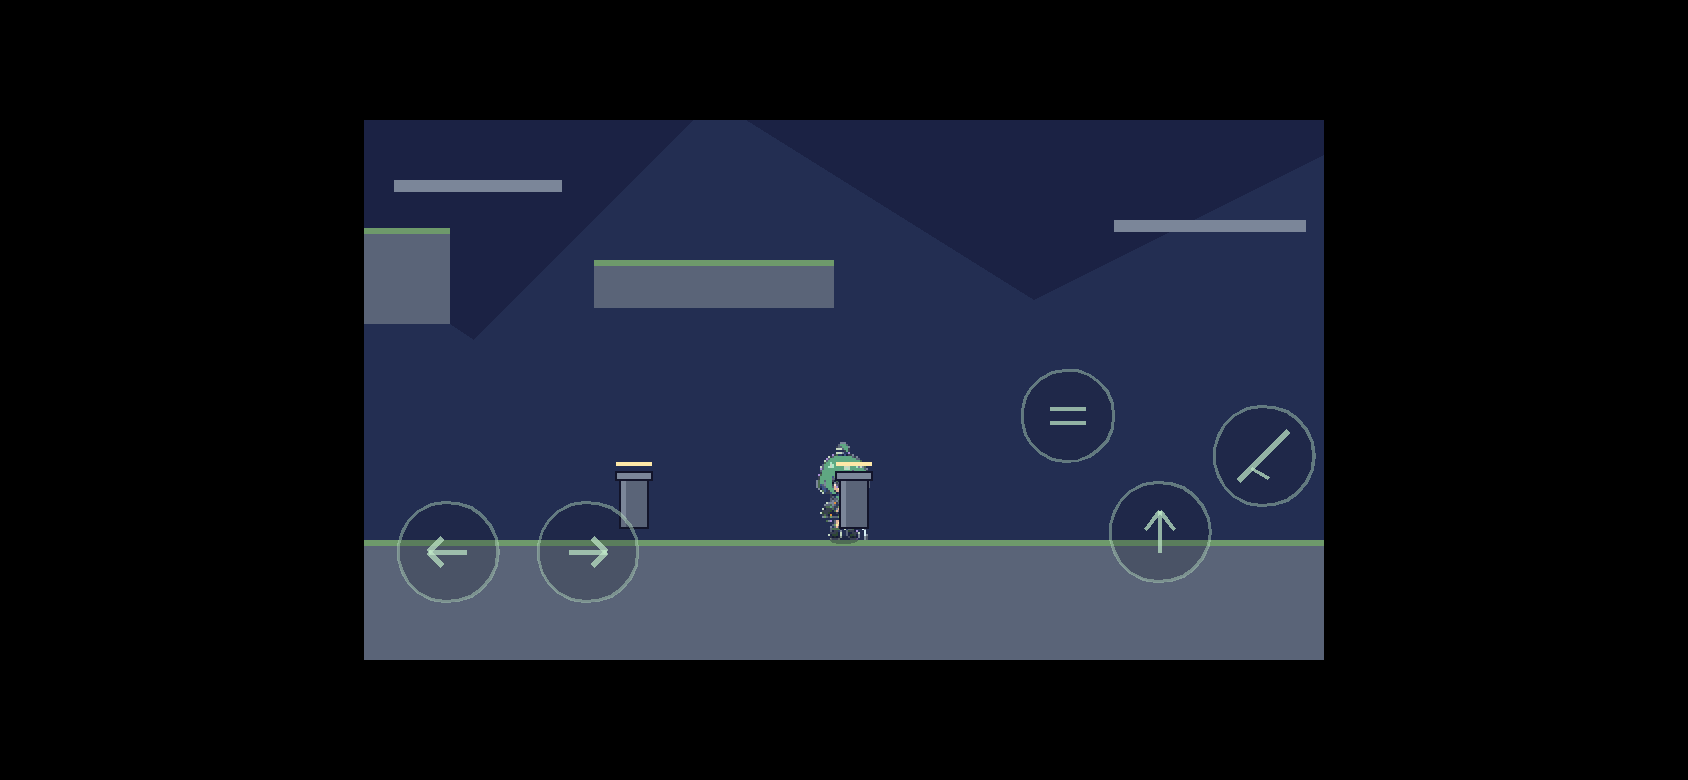
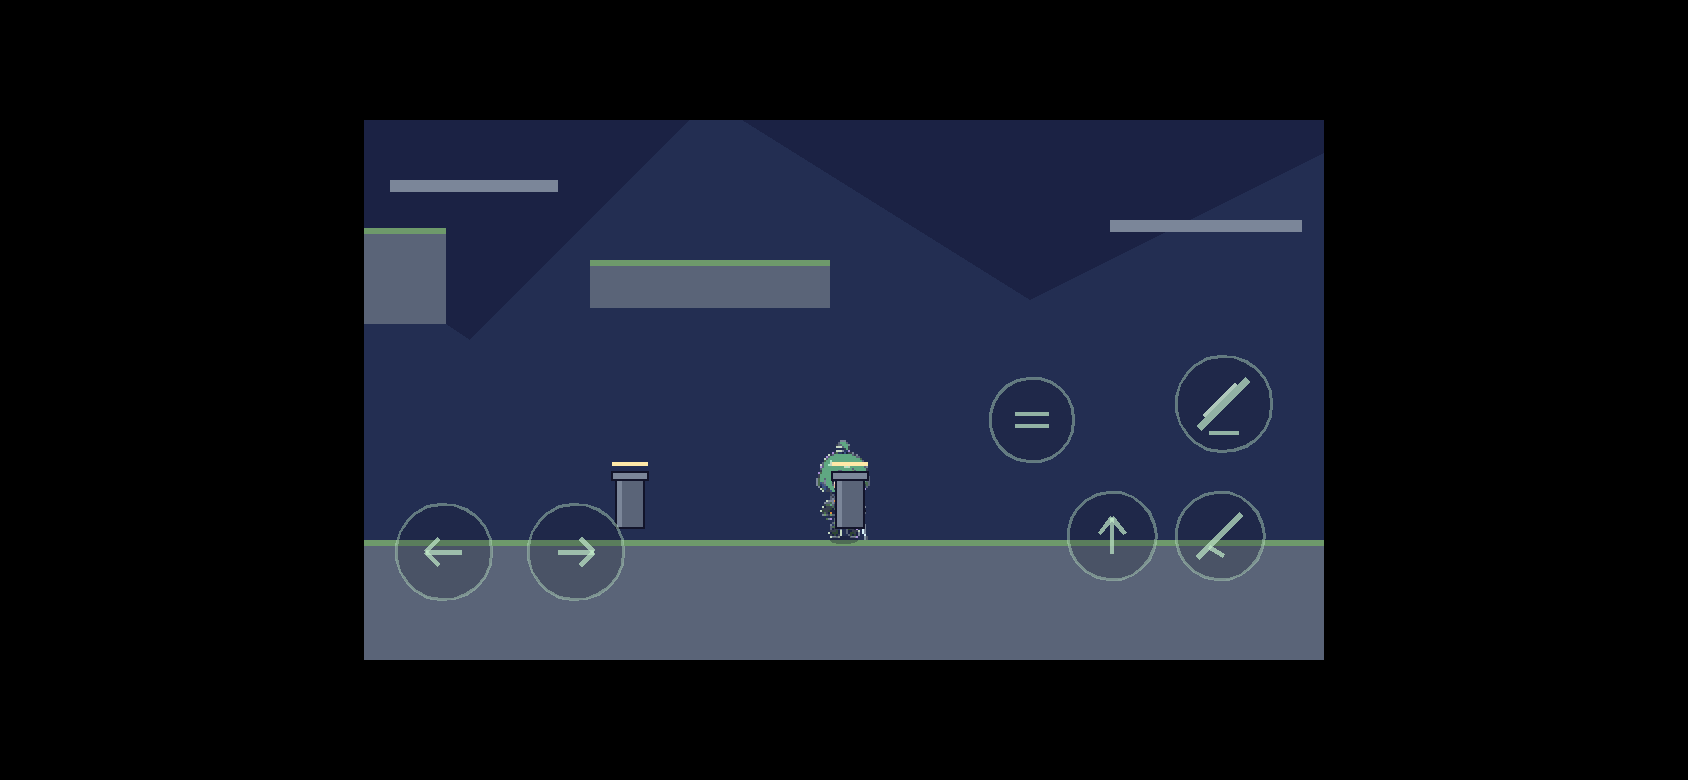
test: 触屏重击键验证

diff --git a/tools/verify_mobile_touch.py b/tools/verify_mobile_touch.py
@@ -23,11 +23,12 @@ MOBILE = {
 # 与 src/ui/touch_controls.gd 的 _build_buttons 保持一致
 # 视口 480x270 → 屏幕比例坐标
 BTN = {
-    "left": (0.0875, 0.8000),
-    "right": (0.2333, 0.8000),
-    "dash": (0.7333, 0.5481),
-    "jump": (0.8292, 0.7630),
-    "attack": (0.9375, 0.6222),
+    "left": (0.0833, 0.8000),
+    "right": (0.2208, 0.8000),
+    "dash": (0.6958, 0.5556),
+    "jump": (0.7792, 0.7704),
+    "attack": (0.8917, 0.7704),
+    "heavy": (0.8958, 0.5259),
 }
 
 
@@ -162,6 +163,24 @@ def main():
             print("  FAIL 点击攻击键后画面无变化")
 
         page.screenshot(path="art/screenshots/mobile_touch_03_attack.png")
+
+        # ── 测试 2b：点击重击键，画面应变化（更长时间的挥砍）──
+        hx, hy = pos("heavy")
+        page.wait_for_timeout(900)
+        before_h = page.screenshot()
+        touch_start(hx, hy, 2)
+        page.wait_for_timeout(500)
+        touch_end()
+        page.wait_for_timeout(200)
+        after_h = page.screenshot()
+        heavied = before_h != after_h
+        if heavied:
+            print("  ok   点击重击键后画面发生变化（重攻击生效）")
+        else:
+            failures.append("点击重击键后画面无变化")
+            print("  FAIL 点击重击键后画面无变化")
+
+        page.screenshot(path="art/screenshots/mobile_touch_05_heavy.png")
 
         # ── 测试 3：多点触控（左移 + 攻击同时） ──
         lx, ly = pos("left")
